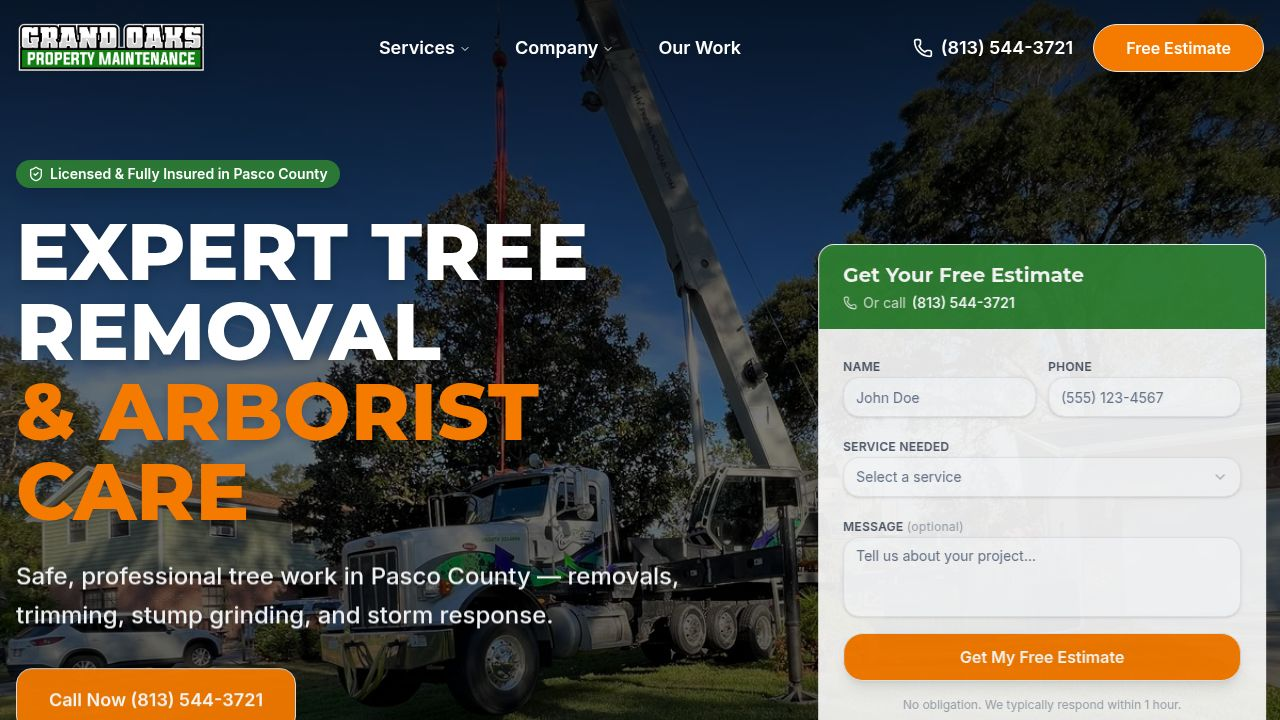
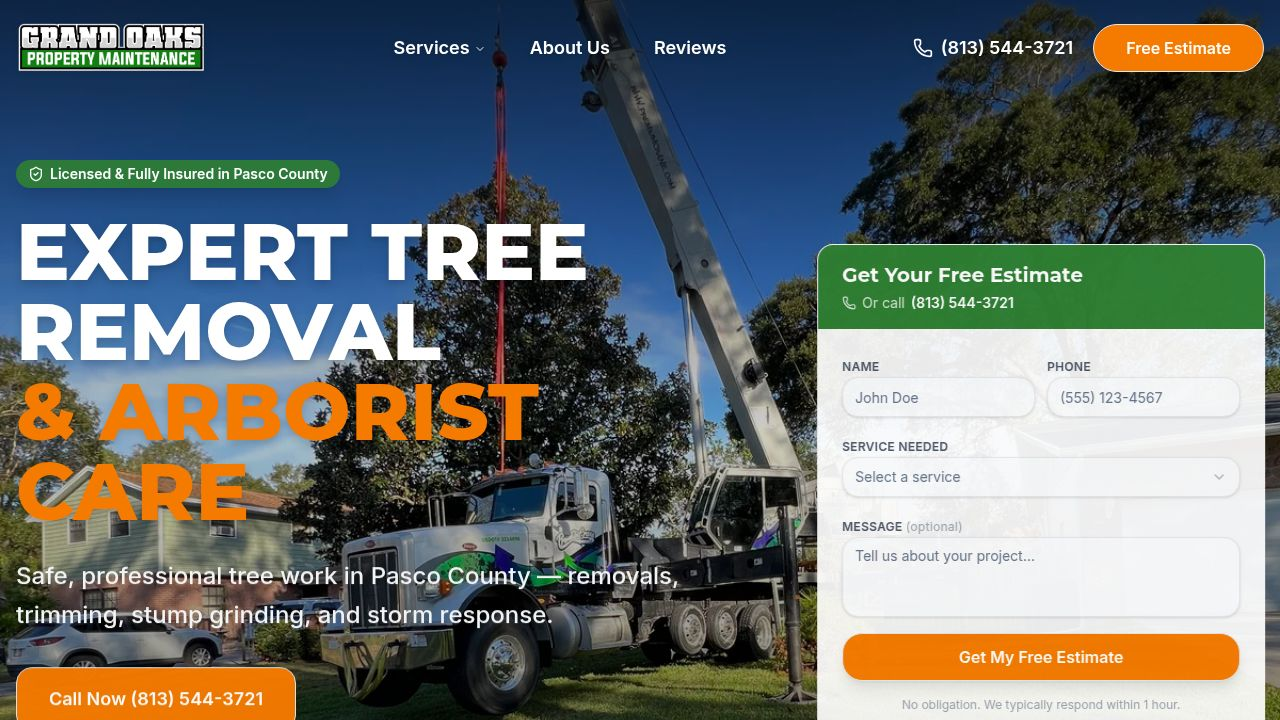
Update navigation to include separate About Us and Reviews links
Refactors header navigation by removing the "Our Work" link, eliminating the "Company" dropdown, and adding direct links for "About Us" and "Reviews." Also ensures the contact form is present on the reviews page for scrolling functionality.

Replit-Commit-Author: Agent
Replit-Commit-Session-Id: bf870ed8-5a76-488e-b395-7ac07492c5f7
Replit-Commit-Checkpoint-Type: full_checkpoint
Replit-Commit-Event-Id: c8c09809-caef-44f6-b049-6f798872aeae
Replit-Commit-Screenshot-Url: https://storage.googleapis.com/screenshot-production-us-central1/4c9c0030-31a8-4c4c-ad04-f82a97797d71/bf870ed8-5a76-488e-b395-7ac07492c5f7/AYxaBCN
Replit-Helium-Checkpoint-Created: true

diff --git a/client/src/components/landing/Header.tsx b/client/src/components/landing/Header.tsx
@@ -1,5 +1,5 @@
-import { Phone, Menu, ChevronDown, Star } from "lucide-react";
-import { useState, useEffect, useRef } from "react";
+import { Phone, Menu } from "lucide-react";
+import { useState, useEffect } from "react";
 import { Button } from "@/components/ui/button";
 import { Sheet, SheetContent, SheetTrigger } from "@/components/ui/sheet";
 import { cn } from "@/lib/utils";
@@ -14,64 +14,6 @@ import {
 import { servicesData } from "@/data/services";
 import { Link as WouterLink } from "wouter";
 
-function CompanyDropdown({ isScrolled, companyLinks }: { isScrolled: boolean; companyLinks: { name: string; href: string }[] }) {
-  const [open, setOpen] = useState(false);
-  const timeoutRef = useRef<ReturnType<typeof setTimeout>>(null);
-
-  const handleEnter = () => {
-    if (timeoutRef.current) clearTimeout(timeoutRef.current);
-    setOpen(true);
-  };
-  const handleLeave = () => {
-    timeoutRef.current = setTimeout(() => setOpen(false), 150);
-  };
-
-  return (
-    <div className="relative" onMouseEnter={handleEnter} onMouseLeave={handleLeave}>
-      <button
-        className={cn(
-          "inline-flex items-center gap-1 text-lg font-semibold transition-colors h-auto px-4 py-2 rounded-md",
-          open
-            ? "bg-white/90 backdrop-blur-sm text-brand-orange shadow-sm"
-            : isScrolled 
-              ? "bg-transparent text-brand-charcoal hover:text-brand-orange" 
-              : "bg-transparent text-white hover:text-brand-orange drop-shadow-md"
-        )}
-        data-testid="nav-company-dropdown"
-        onClick={() => setOpen(!open)}
-      >
-        Company
-        <ChevronDown className={cn("relative top-[1px] h-3 w-3 transition duration-300", open && "rotate-180")} aria-hidden="true" />
-      </button>
-      {open && (
-        <div className="absolute left-1/2 -translate-x-1/2 top-full pt-1.5 z-50">
-          <div className="bg-white rounded-xl shadow-xl border border-gray-100 overflow-hidden p-2 w-[220px]">
-            {companyLinks.map((item) => (
-              <WouterLink
-                key={item.name}
-                href={item.href}
-                className="flex items-center gap-2.5 select-none rounded-md p-3 no-underline outline-none transition-colors hover:bg-brand-offwhite group"
-                data-testid={`link-company-${item.name.toLowerCase()}`}
-                onClick={() => setOpen(false)}
-              >
-                <Star className="w-4 h-4 text-brand-orange shrink-0" />
-                <div className="space-y-1">
-                  <div className="text-sm font-bold leading-none text-brand-charcoal group-hover:text-brand-charcoal">
-                    {item.name}
-                  </div>
-                  <p className="text-xs leading-snug text-gray-500">
-                    See What Our Customers Say
-                  </p>
-                </div>
-              </WouterLink>
-            ))}
-          </div>
-        </div>
-      )}
-    </div>
-  );
-}
-
 export default function Header() {
   const [isOpen, setIsOpen] = useState(false);
   const [isScrolled, setIsScrolled] = useState(false);
@@ -85,15 +27,10 @@ export default function Header() {
     return () => window.removeEventListener("scroll", handleScroll);
   }, []);
 
-  const companyLinks = [
-    { name: "About Us", href: "/about-us/" },
-    { name: "Reviews", href: "/reviews/" },
-  ];
-
   const navLinks = [
     { name: "Services", href: "#services", type: "dropdown" },
-    { name: "Company", href: "#company", type: "company-dropdown" },
-    { name: "Our Work", href: "/#gallery", type: "link" },
+    { name: "About Us", href: "/about-us/", type: "page-link" },
+    { name: "Reviews", href: "/reviews/", type: "page-link" },
   ];
 
   return (
@@ -157,11 +94,9 @@ export default function Header() {
                         </ul>
                       </NavigationMenuContent>
                     </>
-                  ) : link.type === "company-dropdown" ? (
-                    <CompanyDropdown isScrolled={isScrolled} companyLinks={companyLinks} />
                   ) : (
                     <NavigationMenuLink asChild>
-                      <a 
+                      <WouterLink 
                         href={link.href}
                         className={cn(
                           "font-semibold transition-colors text-lg block px-4 py-2",
@@ -171,7 +106,7 @@ export default function Header() {
                         )}
                       >
                         {link.name}
-                      </a>
+                      </WouterLink>
                     </NavigationMenuLink>
                   )}
                 </NavigationMenuItem>
@@ -270,16 +205,6 @@ export default function Header() {
                     Reviews
                   </WouterLink>
 
-                  {navLinks.filter(l => l.type !== 'dropdown' && l.type !== 'company-dropdown').map((link) => (
-                    <a 
-                      key={link.name} 
-                      href={link.href}
-                      className="text-xl font-medium text-foreground hover:text-brand-green transition-colors"
-                      onClick={() => setIsOpen(false)}
-                    >
-                      {link.name}
-                    </a>
-                  ))}
                 </nav>
                 <div className="flex flex-col gap-3 mt-4">
                   <Button 
